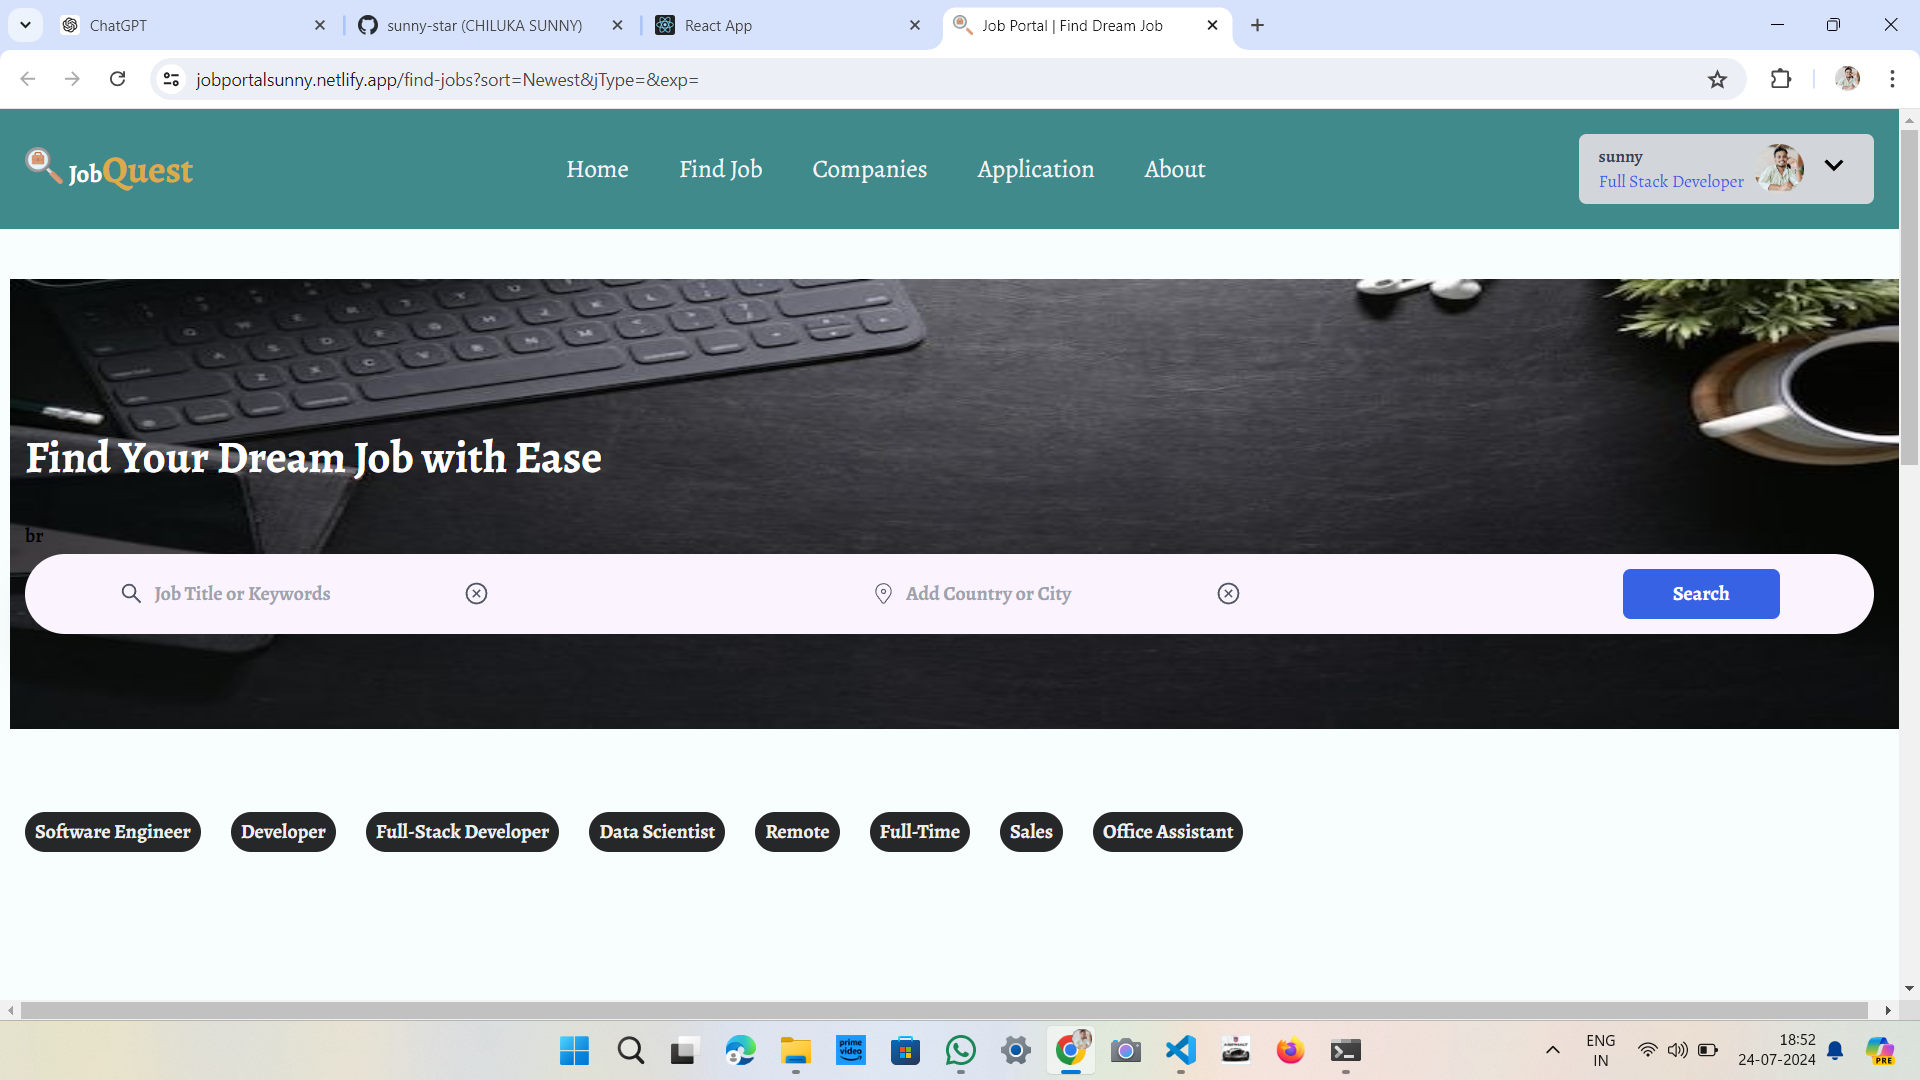
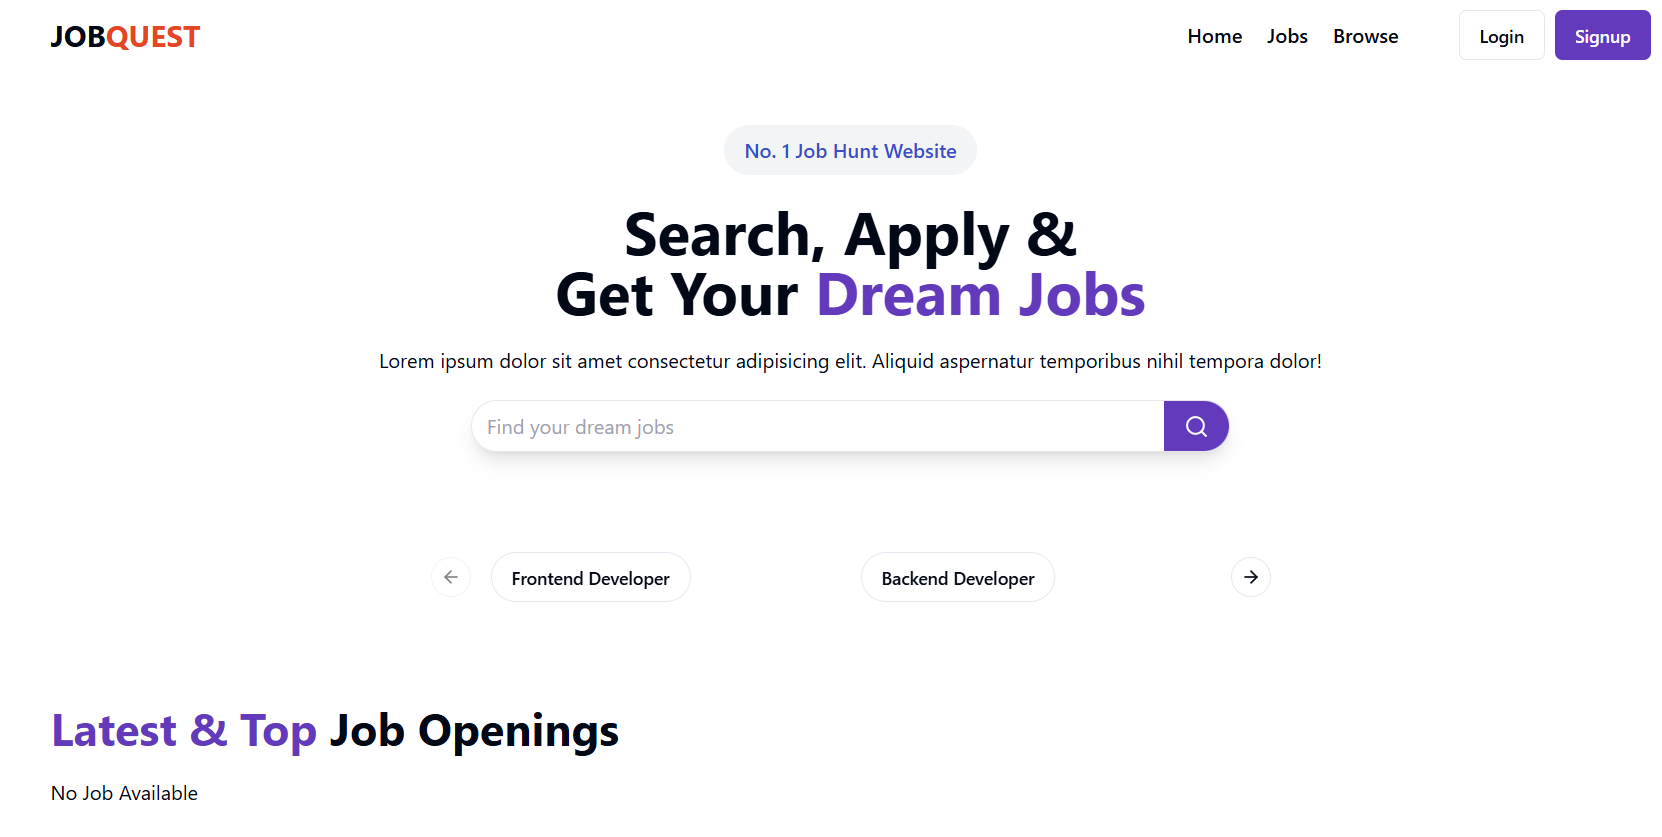
Your commit message

diff --git a/src/components/About.jsx b/src/components/About.jsx
@@ -2,11 +2,11 @@ import React from 'react'
 
 const About = () => {
   return (
-    <div name="About" className='w-full bg-gradient-to-b from-gray-800 to-black md:px-20 text-white '>
+    <div name="About" className='w-full bg-gradient-to-b mb:32 from-gray-800 to-black md:px-20 text-white '>
 
       <div className='max-w-screen-lg p-4 mx-auto flex flex-col justify-center w-full h-full '>
-        <div className='pb-5 py-3'>
-          <p className='text-3xl  text-yellow-300  font-bold inline border-b-4 border-gray-500'>
+        <div className='pt-12 py-3'>
+          <p className='text-3xl  text-yellow-300  pt:12 font-bold inline border-b-4 border-gray-500'>
             About
           </p>
         </div>

diff --git a/src/components/Projects.jsx b/src/components/Projects.jsx
@@ -21,7 +21,7 @@ const Projects = () => {
                 </>
             ),
             name: 'JobQuest',
-            href1: 'http://jobportalsunny.netlify.app',
+            href1: 'https://jobquestsunny.vercel.app/',
             href2: 'https://github.com/sunny-star/jobQuest_FullStack',
             tech: (
                 <>

diff --git a/src/components/Home.jsx b/src/components/Home.jsx
@@ -47,7 +47,7 @@ const Home = () => {
           </ul>
         </div>
         <div>
-          <img src={Sunny} alt="my profile" className="rounded-full mx-auto w-44 h-52" />
+          <img src={Sunny} alt="my profile" className=" mt-14  rounded-full mx-auto w-44 h-52" />
         </div>
       </div>
     </div>
